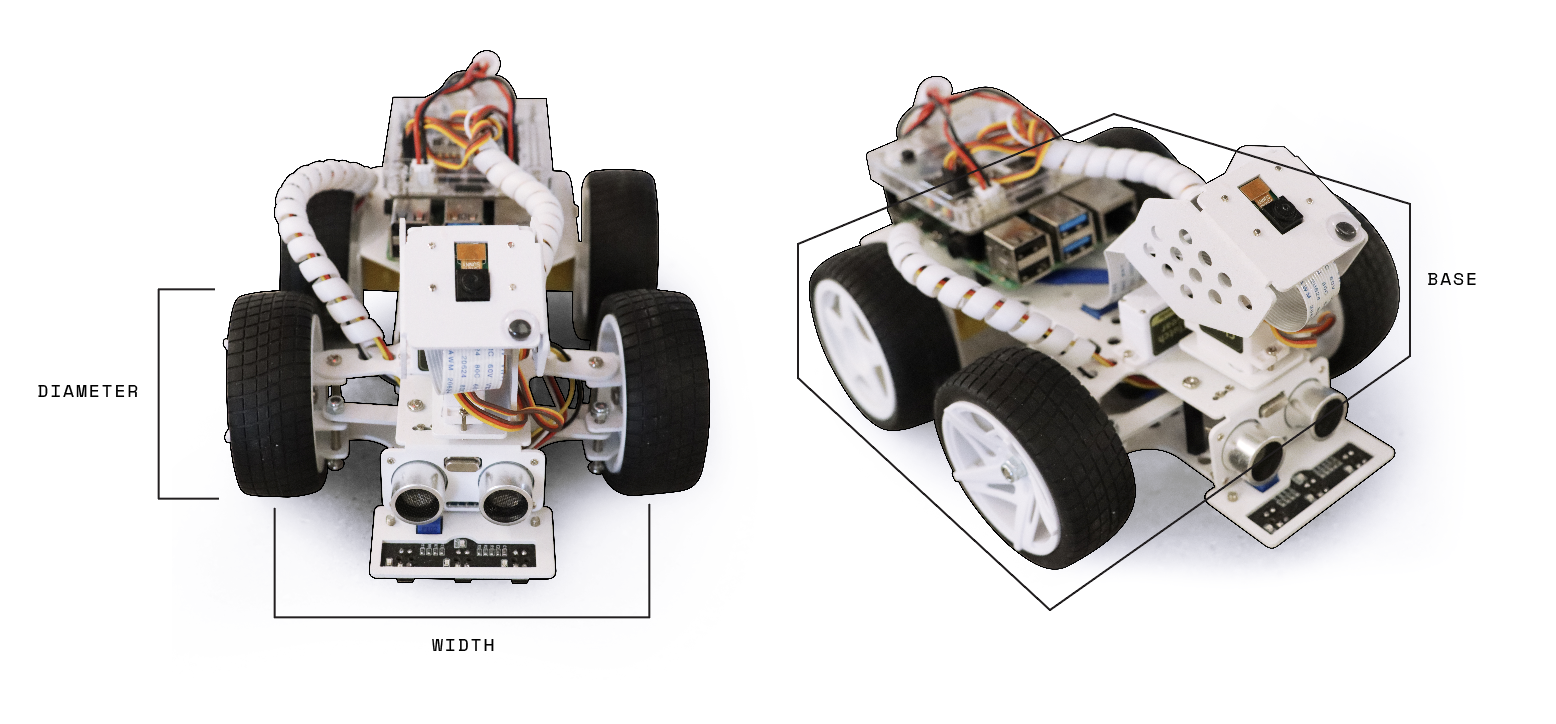
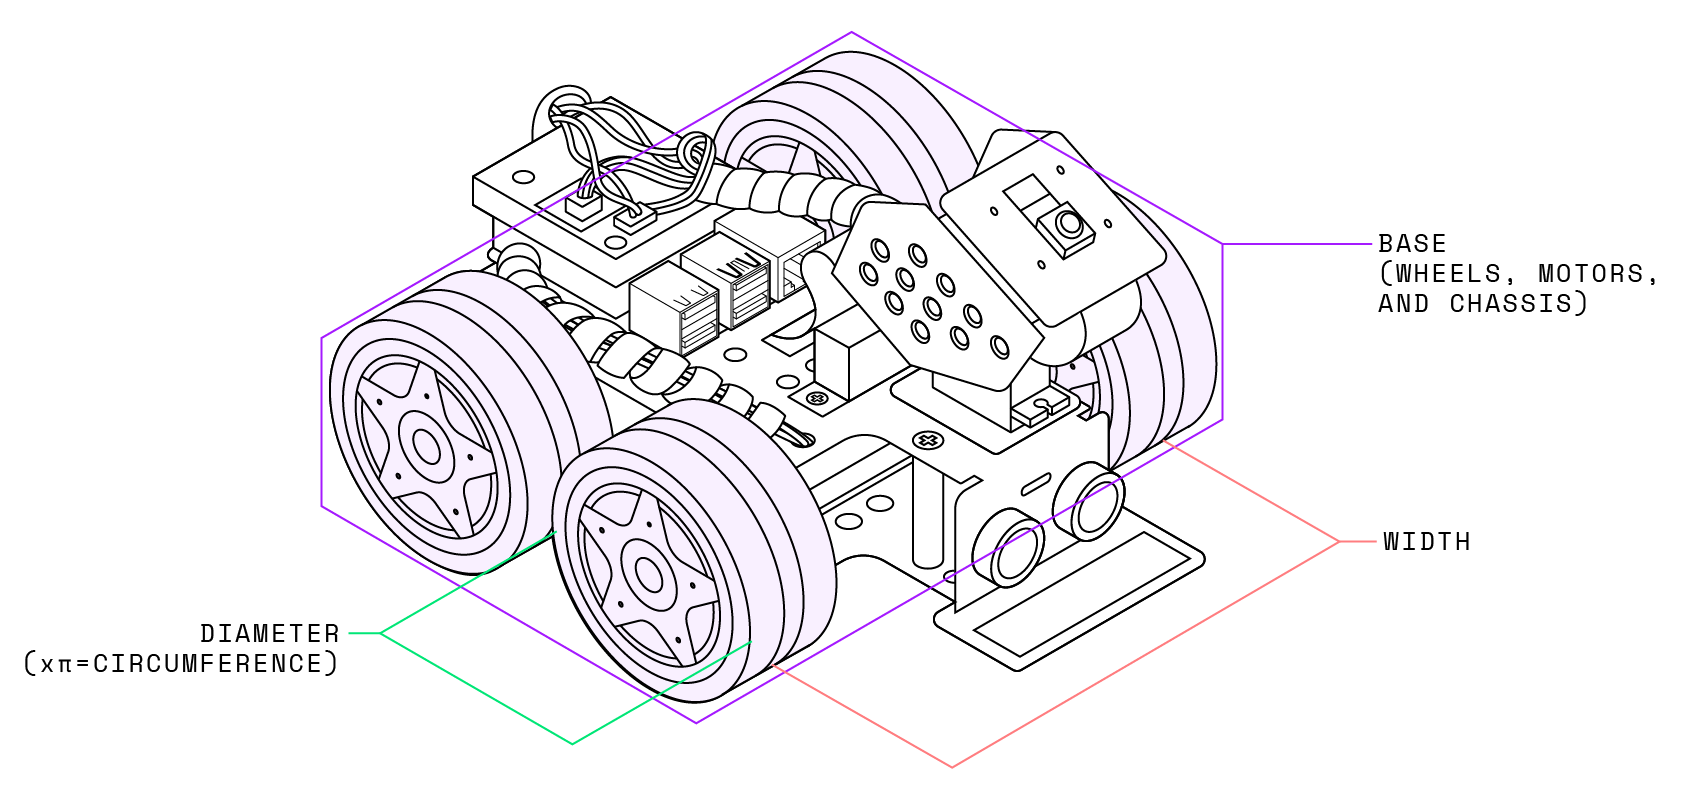
update base images (#393)

diff --git a/docs/components/base.md b/docs/components/base.md
@@ -21,12 +21,13 @@ That is to say, a computing device with general purpose input/output (GPIO) pins
 -   Some sort of chassis to hold everything together
 
 For example:
-<img src="../img/base/base-trk-rover-w-arm.png" alt="A base consisting of a rover with motors and a single board computer having GPIO pins" />
+
+<img src="../img/base/base-trk-rover-w-arm.png" alt="A robot comprised of a base (motors, wheels and chassis) as well as some other components. The wheels are highlighted to indicate that they are part of the concept of a 'base', while the non-base components are not highlighted. There are width and diameter labels on the diagram because width and circumference (pi times diameter) are required attributes when configuring a base component." />
 
 An example of a wiring diagram for a base that has one motor on each side is shown below.
 Note that this will vary greatly depending on choice of motors, motor drivers, power supply, and board.
 
-<img src="../img/base/base-wiring-diagram.png" alt="Wiring diagram showing a Raspberry Pi's connections to the motor drivers, motors, power supply, and voltage regulator for the rover."/>
+<img src="../img/base/base-wiring-diagram.png" alt="Wiring diagram showing a Raspberry Pi, motor drivers, motors, power supply, and voltage regulator for the rover."/>
 
 
 ## Configuration
@@ -103,6 +104,7 @@ An example configuration file, including the board, motors, and base:
 ```
 
 An explanatory view of the same config file:
+
 <img src="../img/base/base-json.png" alt="An image of the JSON configuration file with annotations explaining some of the attributes."/>
 
 ### Required Attributes
